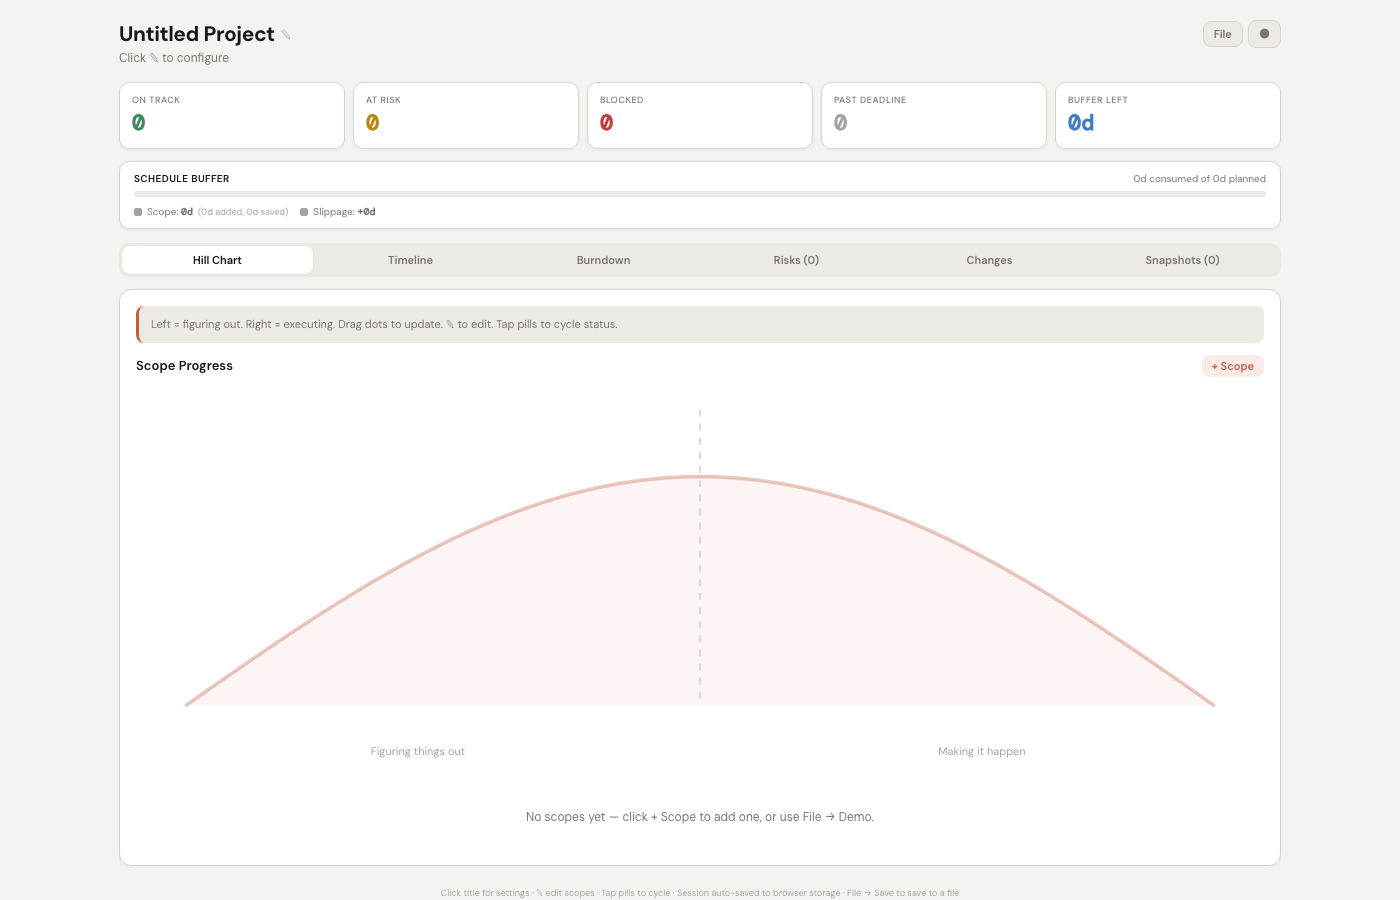
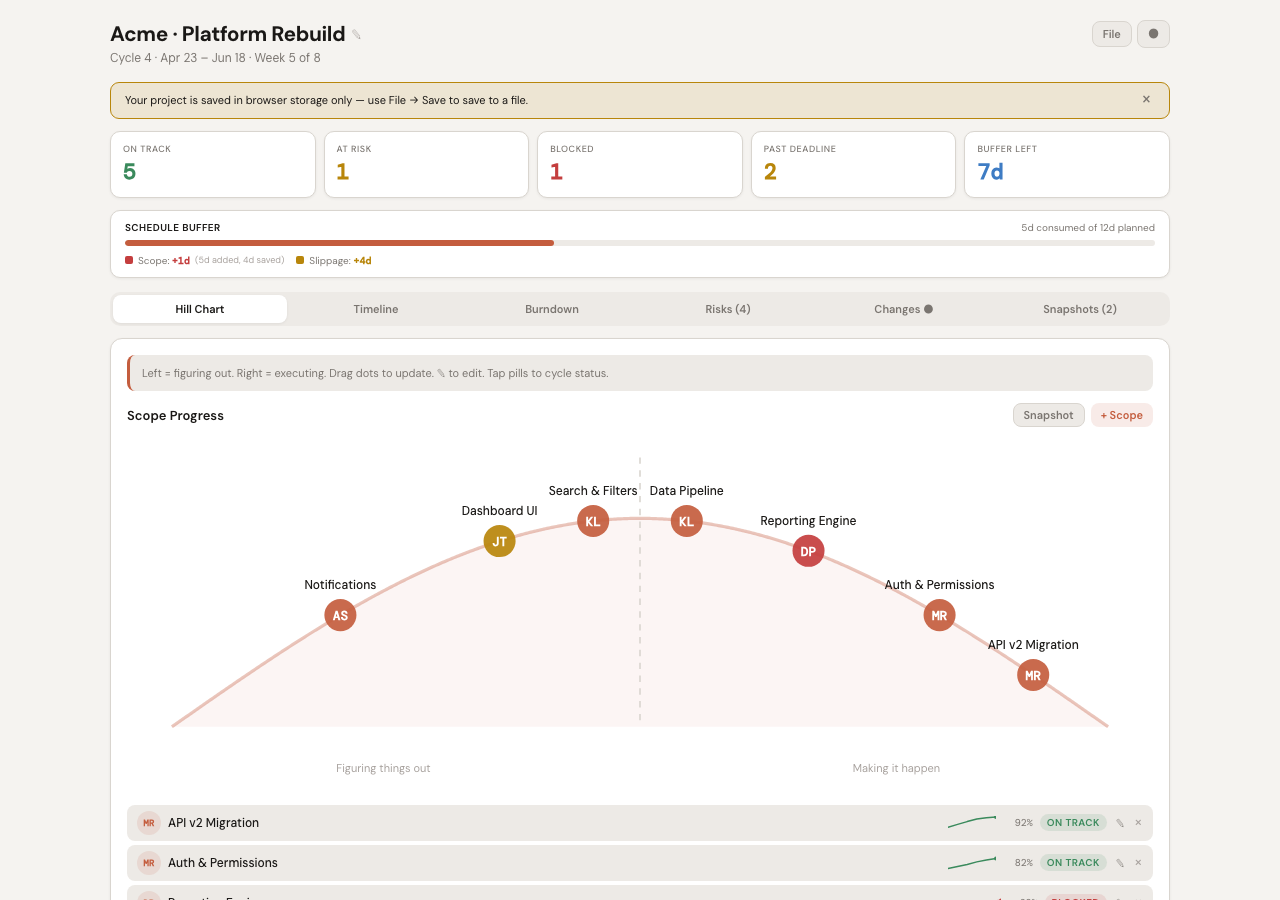
docs: refresh screenshots with demo project and add Trends view
Updates all four README screenshots using the demo project with two
snapshots (Week 3 and Week 4) so the Trends charts show real data.
Adds trends.png and the corresponding README section.

diff --git a/README.md b/README.md
@@ -26,6 +26,10 @@ A project management tool that combines the signals that predict whether a proje
 
 ![Burndown](docs/screenshots/burndown.png)
 
+**Trends** — scope count, buffer remaining, and status distribution across snapshots
+
+![Trends](docs/screenshots/trends.png)
+
 ## Running
 
 Open `src/index.html` in a browser. No build step, no server required.
